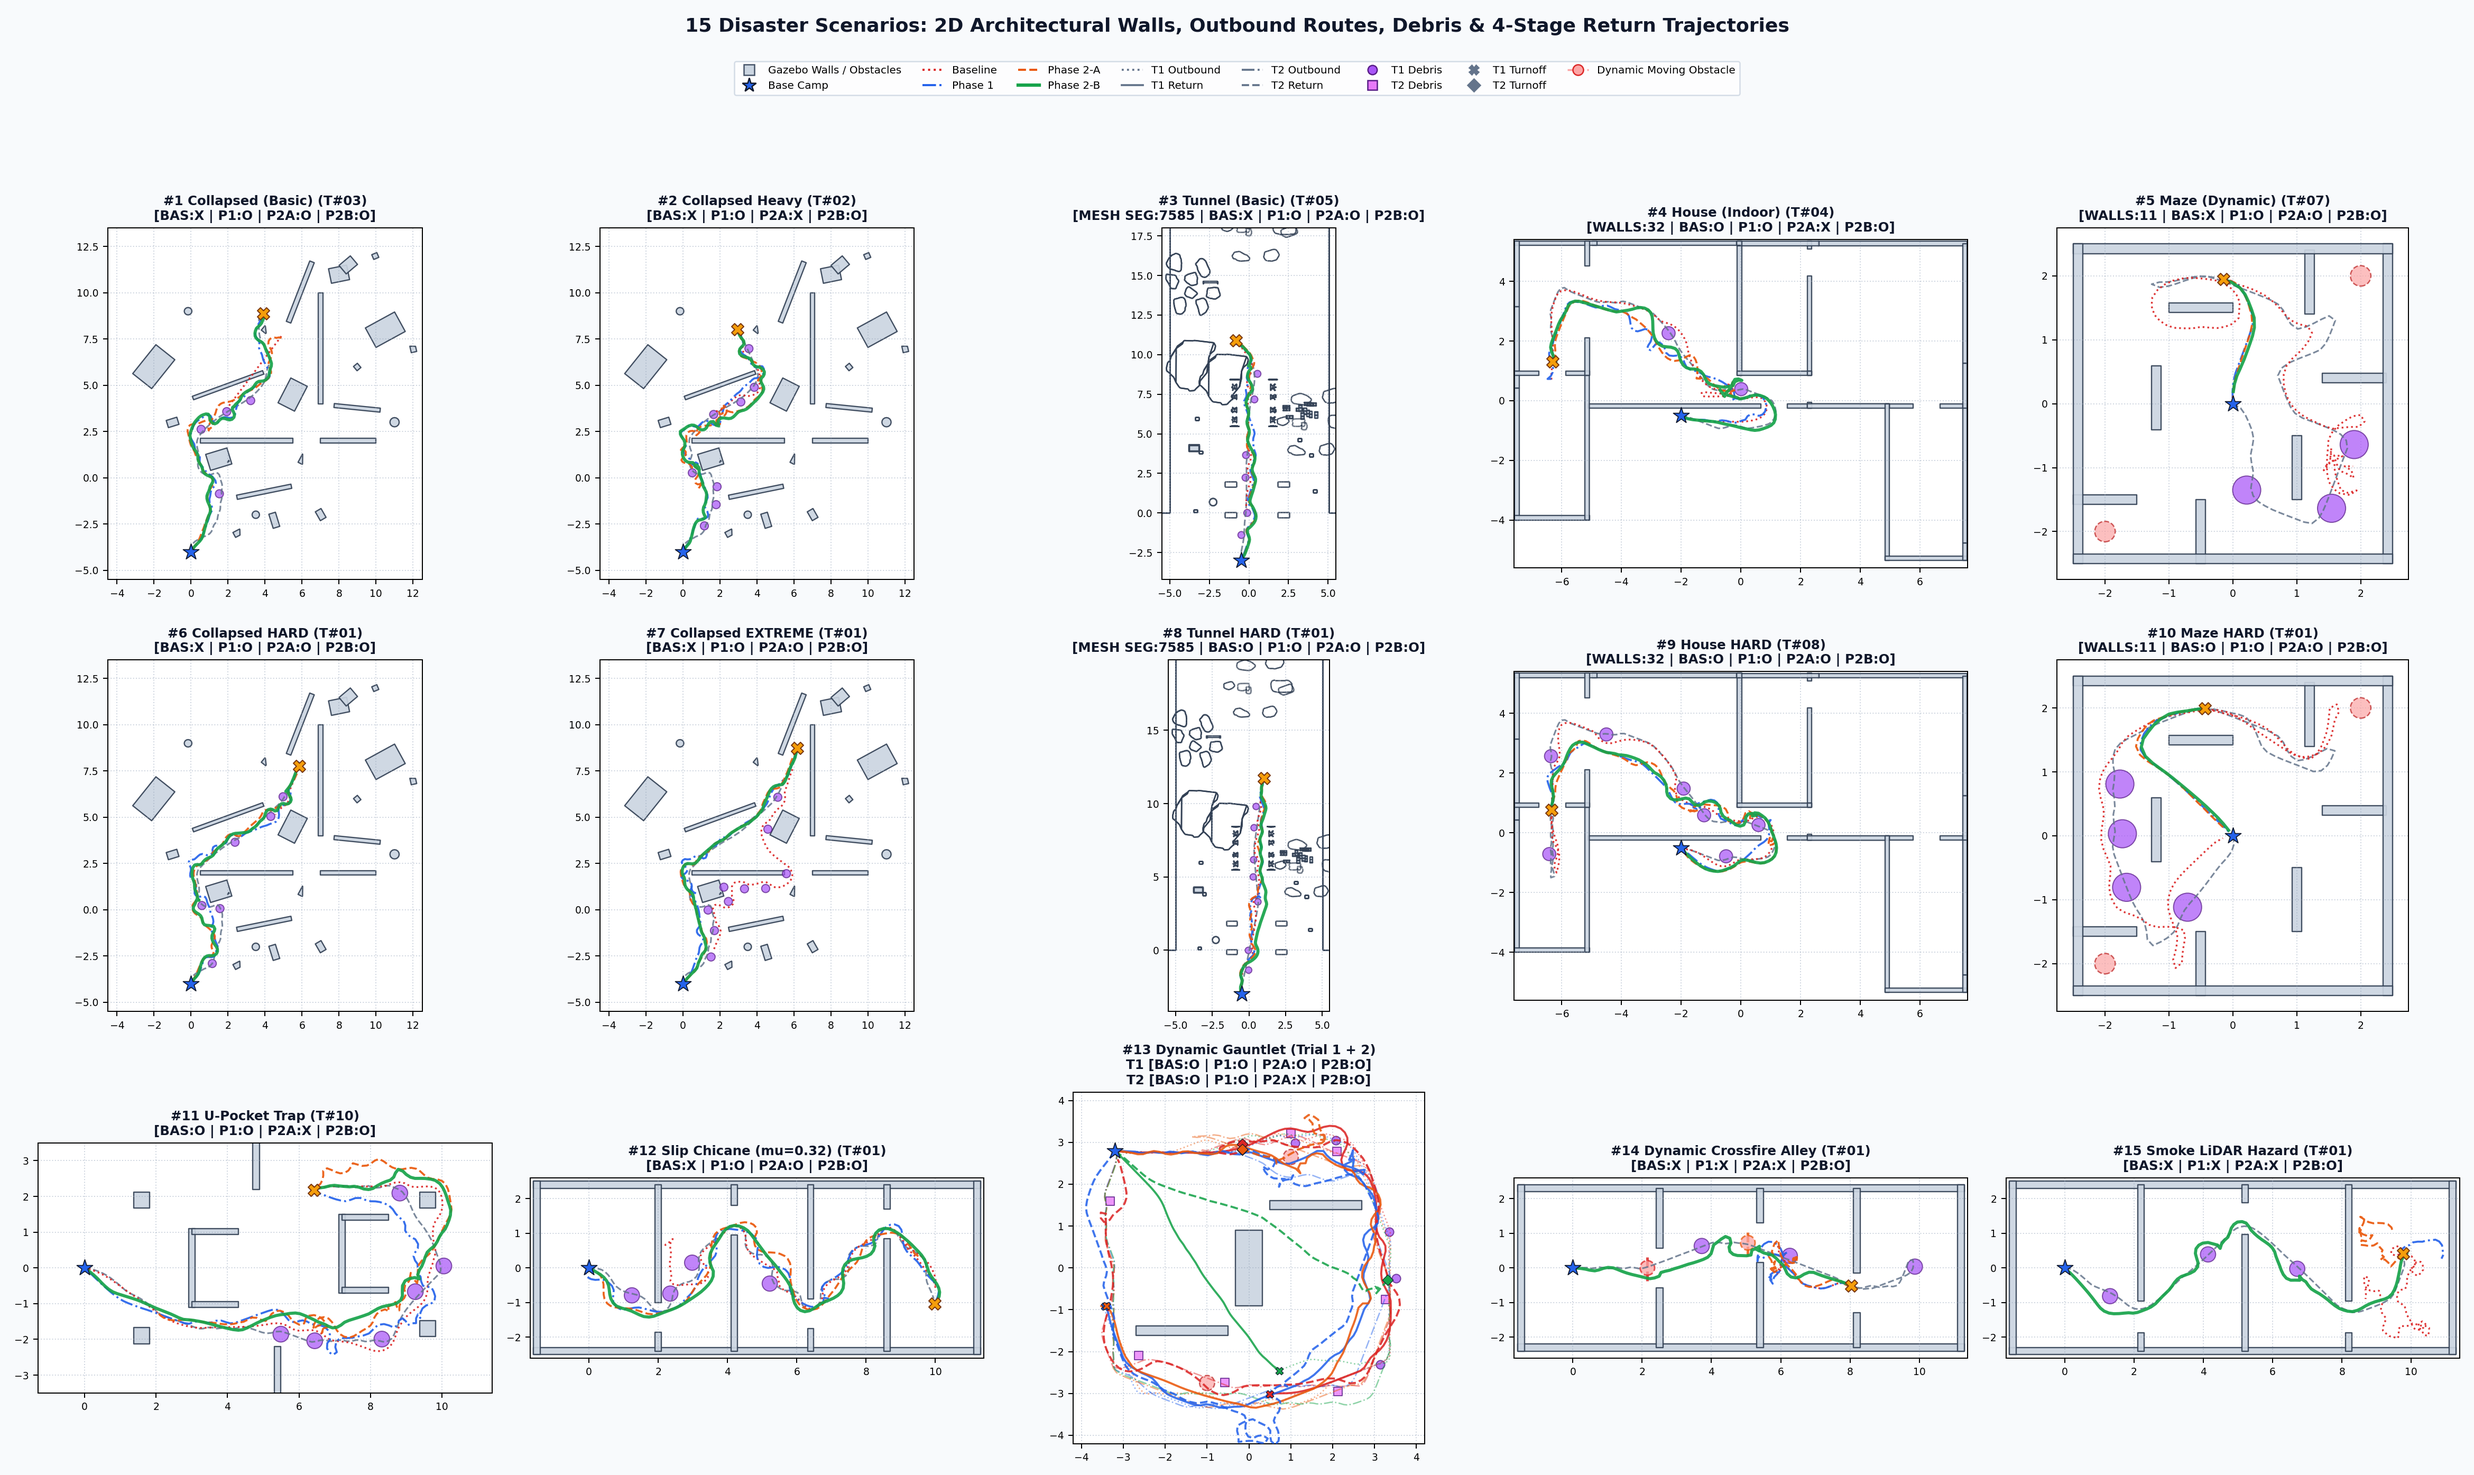
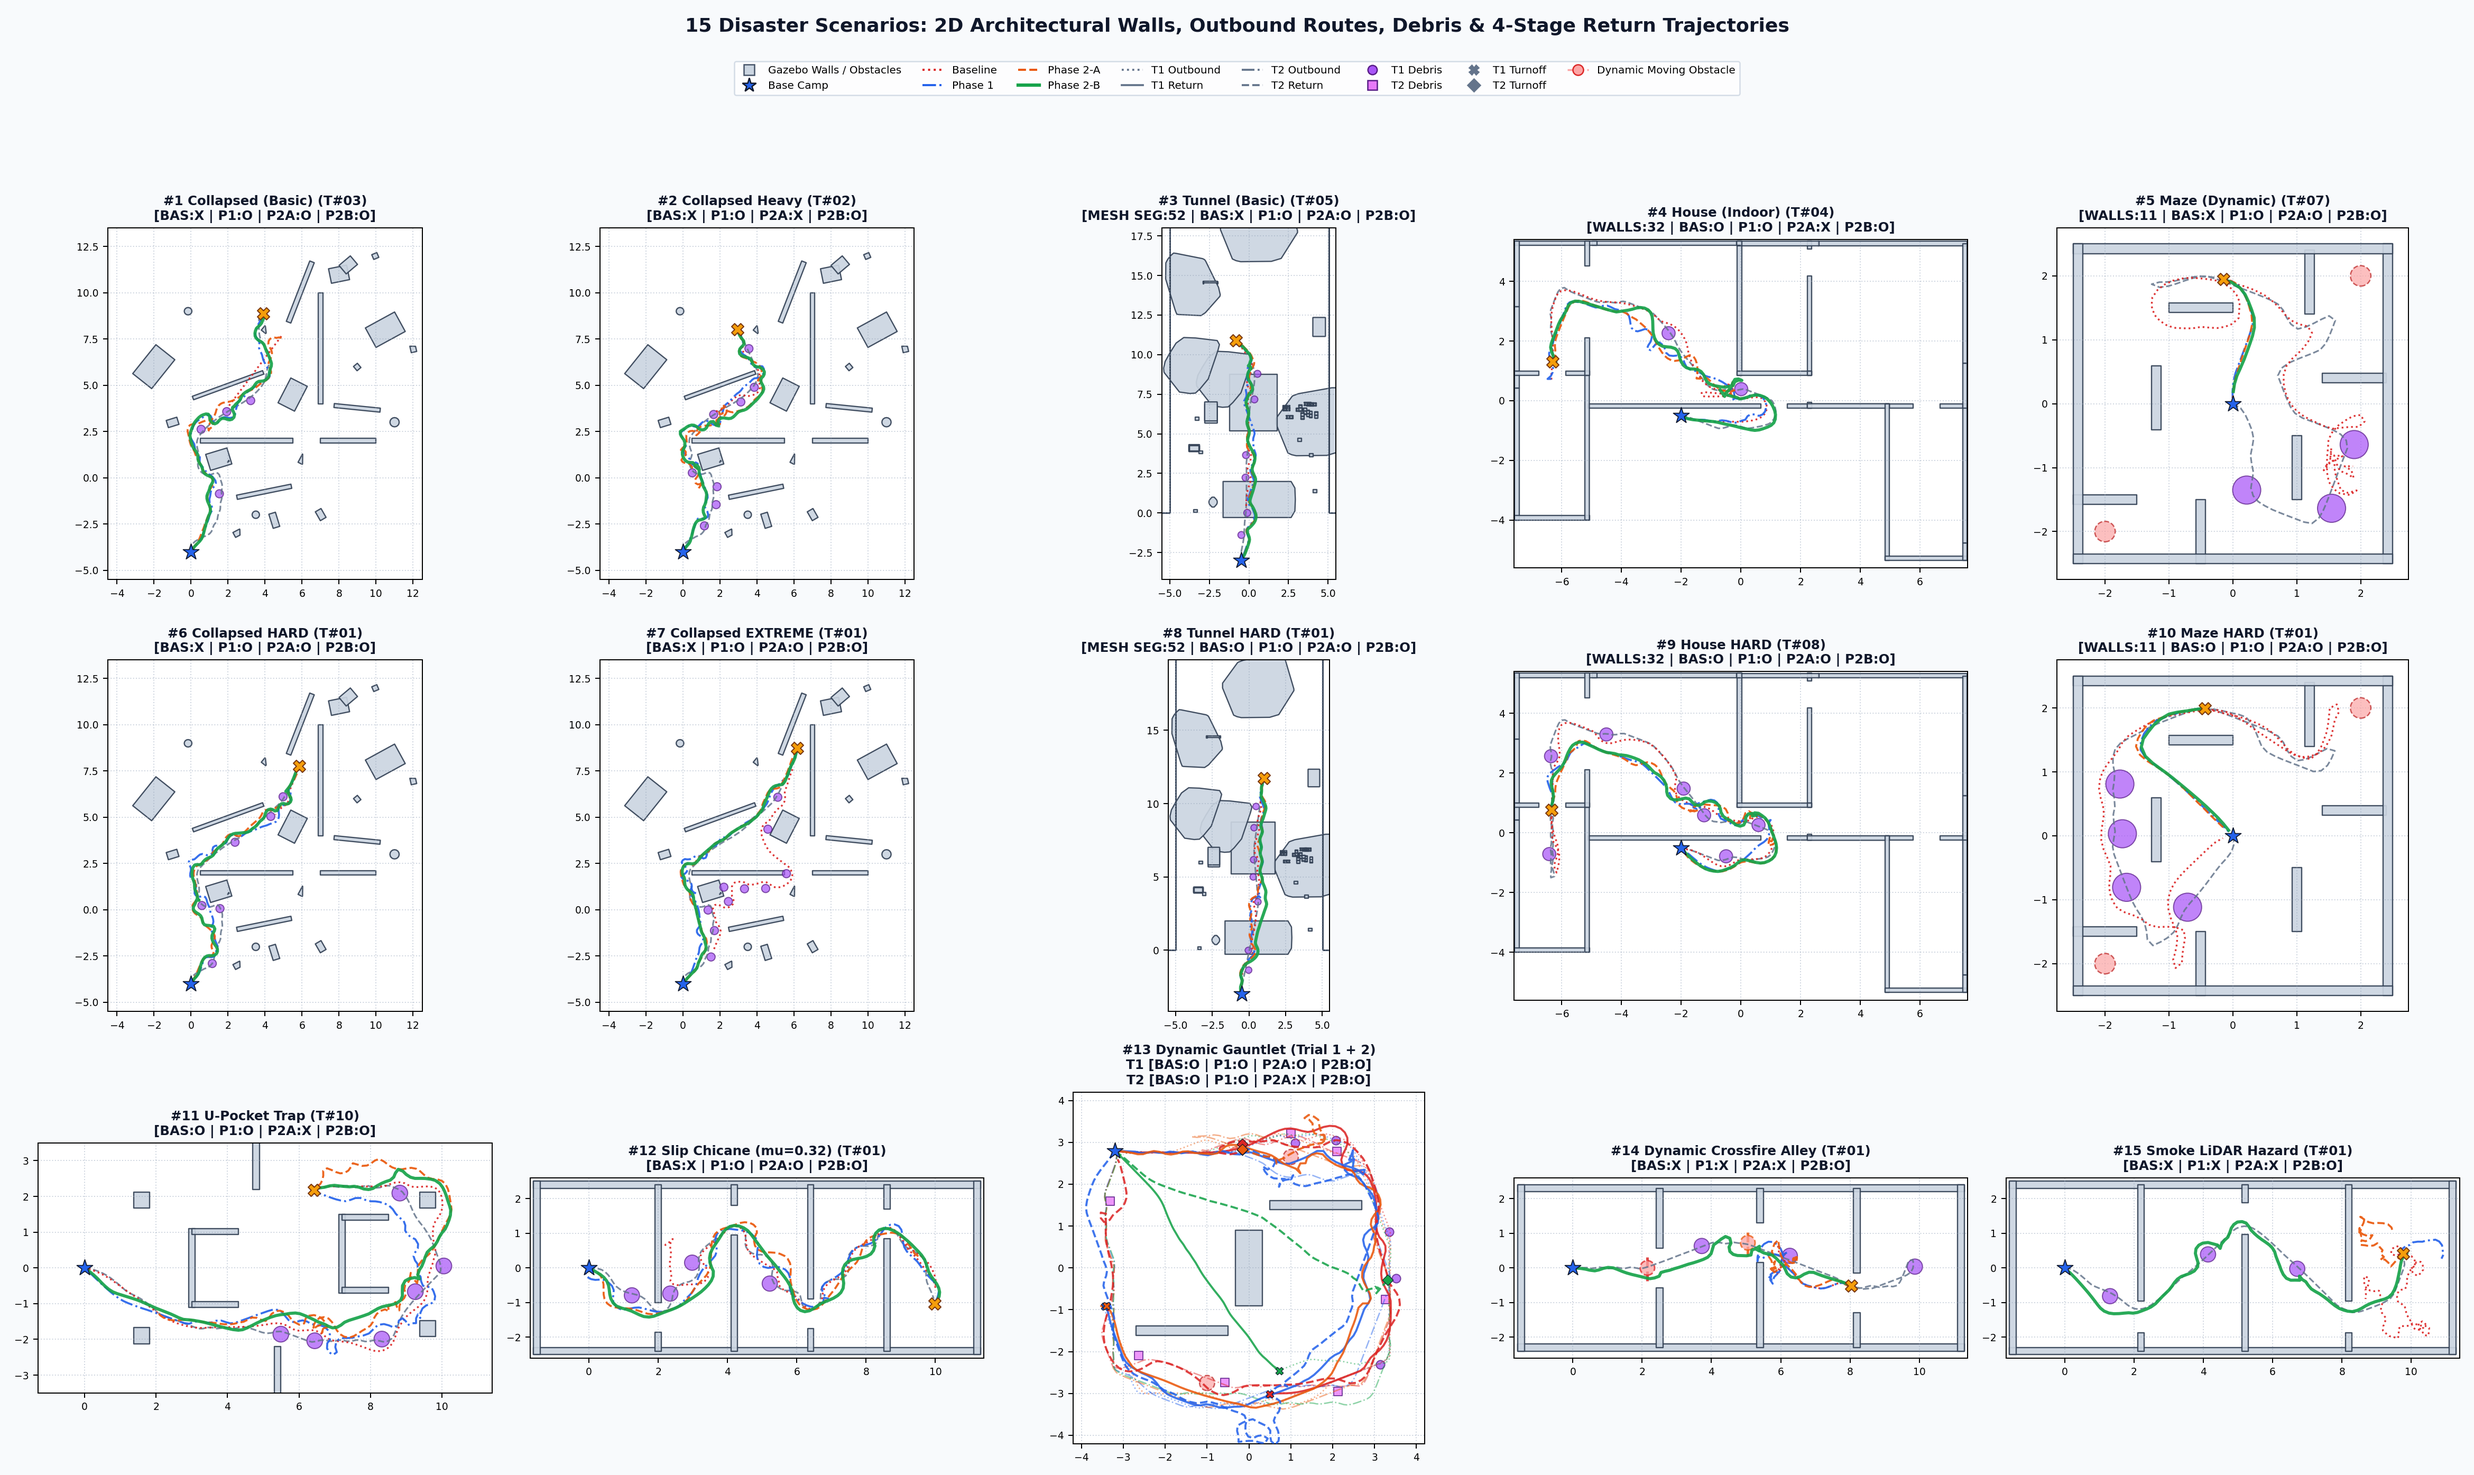
docs(atlas): render solid 2D footprints for tunnel vehicles and rocks

Changed region(s): [[0.4368, 0.1247, 0.5615, 0.3742], [0.4368, 0.4366, 0.5615, 0.6548]]

diff --git a/scripts/host/world_map_geometry.py b/scripts/host/world_map_geometry.py
@@ -359,9 +359,16 @@ def _process_geometry_elem(
         if len(local_tris) == 0:
             return
         tris_w = _transform_tris(local_tris, mat_world, scale)
-        segs = _slice_triangles_xy(tris_w, z_slice)
-        for seg in segs:
-            fp.segments.append((label, seg))
+        if "tunnel_1" in label.lower():
+            segs = _slice_triangles_xy(tris_w, z_slice)
+            for seg in segs:
+                fp.segments.append((label, seg))
+        else:
+            band = tris_w[(tris_w[:, :, 2].max(axis=1) >= 0.05) & (tris_w[:, :, 2].min(axis=1) <= 0.55)]
+            if len(band) > 0:
+                hull = _convex_hull_2d(band.reshape(-1, 3)[:, :2])
+                if len(hull) >= 3:
+                    fp.polygons.append((label, hull))
 
 
 def _process_model_elem(
